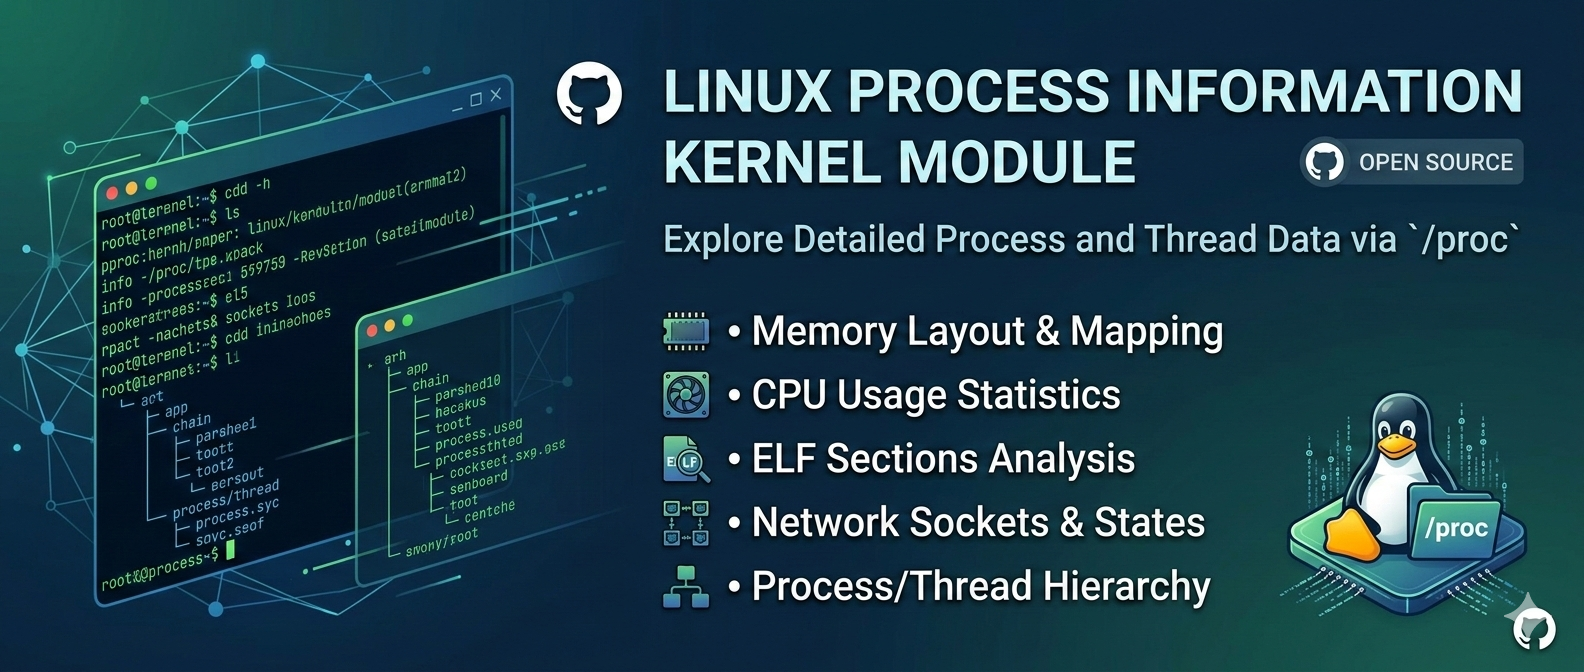
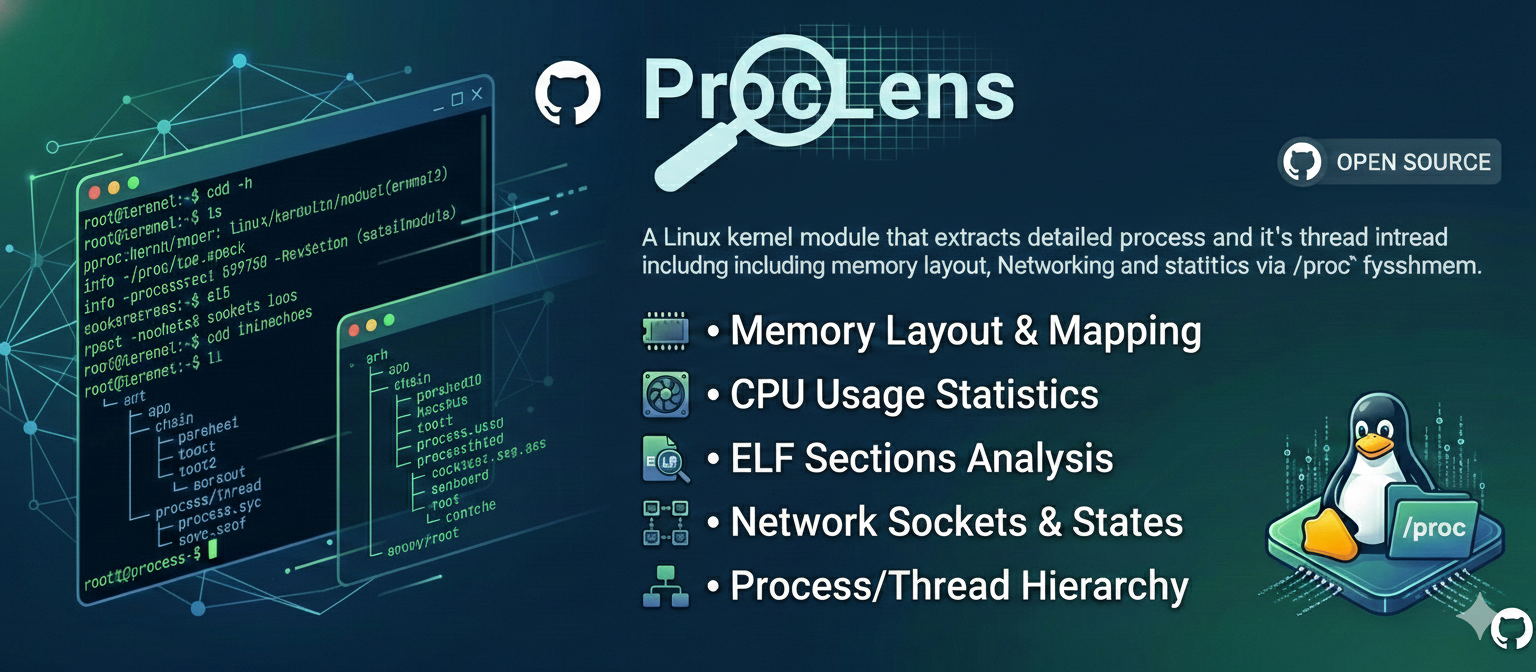
renamed project and revamped docs

diff --git a/README.md b/README.md
@@ -1,4 +1,4 @@
-# Linux Process Information Kernel Module
+# ProcLens
 
 ![Project Banner](docs/banner.png)
 
@@ -12,6 +12,7 @@
 
 - [Features](#features)
 - [Quick Start](#quick-start)
+- [Release Binaries](#release-binaries)
 - [Makefile Targets](#makefile-targets)
 - [Testing](#testing)
 - [Project Structure](#project-structure)
@@ -184,6 +185,34 @@ Total threads: 15
 ```bash
 sudo make uninstall
 ```
+
+## Release Binaries
+
+Download prebuilt binaries from GitHub Releases:
+
+- Latest release: https://github.com/navidpadid/process-info-kernel-module/releases/latest
+- All releases: https://github.com/navidpadid/process-info-kernel-module/releases
+
+> **Important:** Prebuilt kernel module releases are currently provided **only** for
+> **Linux kernel 6.8.0** (the standard Ubuntu 24.04 LTS kernel).
+>
+> If your system runs any other kernel version, build from source instead.
+
+
+After downloading, install/run with root privileges as needed:
+
+```bash
+sudo insmod ./elf_det.ko
+./proc_elf_ctrl
+```
+
+To unload the module:
+
+```bash
+sudo rmmod elf_det
+```
+
+More detailed information is bundled with the release packages.
 
 ## Makefile Targets
 

diff --git a/docs/SCRIPTS.md b/docs/SCRIPTS.md
@@ -1,6 +1,6 @@
 # Scripts Documentation
 
-Scripts for testing the Linux Process Information Kernel Module in isolated QEMU virtual machines.
+Scripts for testing ProcLens in isolated QEMU virtual machines.
 
 ## Quick Reference
 
